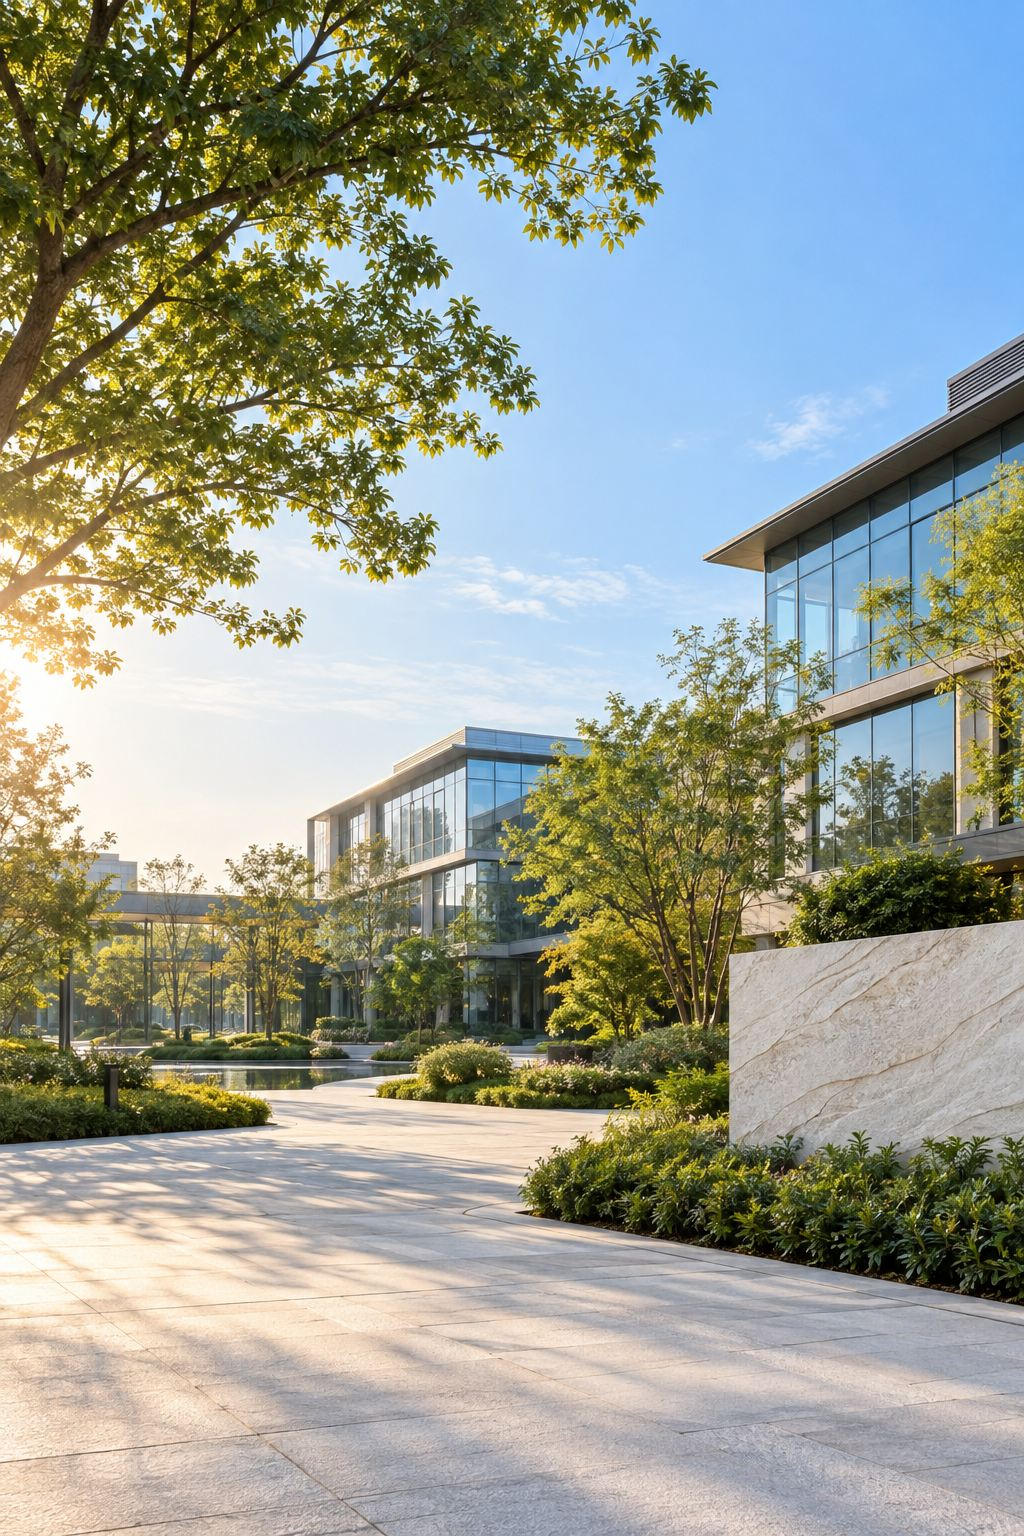
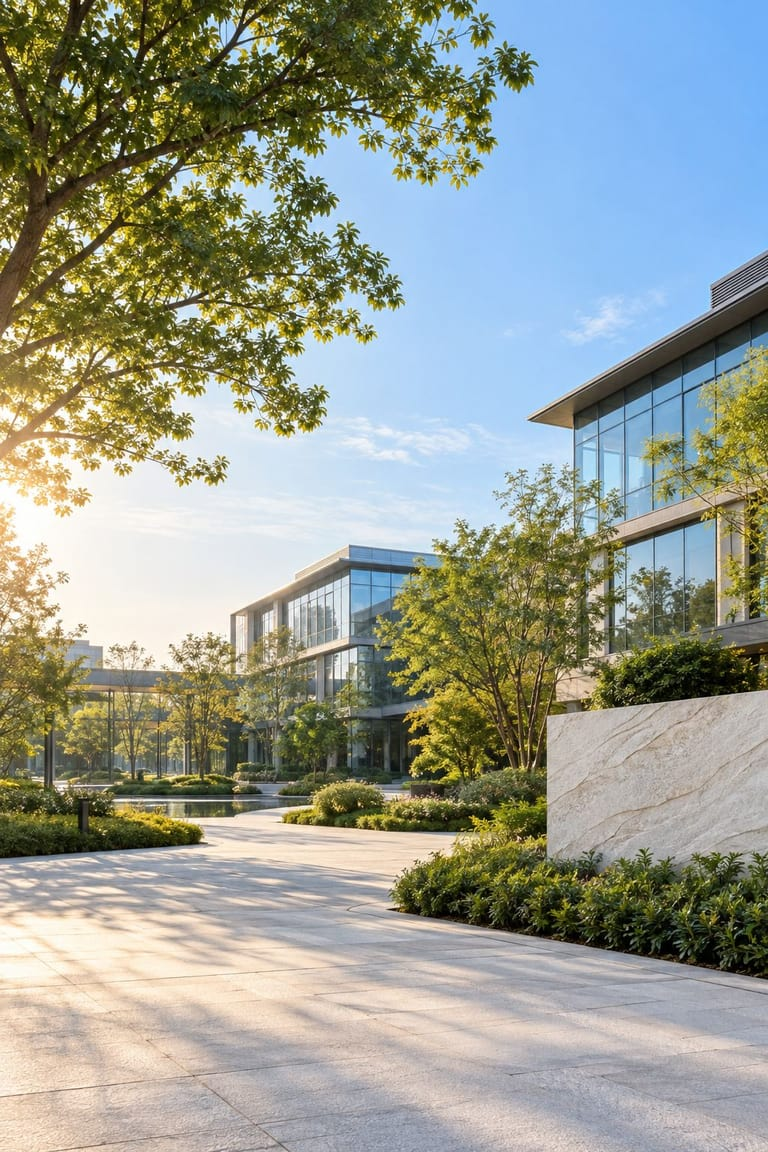
fix: reduce miniapp package size and record AI activity draft acceptance

diff --git a/docs/implementation-log/2026-11.md b/docs/implementation-log/2026-11.md
@@ -213,3 +213,11 @@
 名片设置与预览新增「编辑名片信息」。编辑返回后刷新头像、名称和补充资料，保留未保存的展示开关。底部预览按钮增加眼睛图标与浅绿描边，与保存按钮等宽同高。小程序类型检查、页面 ESLint、8 项名片测试及本地微信开发版编译通过，已核对开发产物，真机视觉待验。
 
 2026-11-12 用户已确认本地 AI 找活动、活动分享页和我的名片可用。线上新版 API 部署、真实模型检索和新版小程序真机复验待完成，首次邀请绑定继续待验。
+
+## 2026-11-12｜修复微信上传包体超限
+
+微信上传报告 80051，源码包 2051 KB。校园静态底图等比缩至 768 × 1152，JPEG 从 376821 字节减少到 197038 字节。重新编译服务器版小程序，核对产物图片哈希与 API 地址后，微信开发者工具 preview 成功，报告包体 1648587 字节。体验版上传由用户操作。
+
+## 2026-11-12｜AI 发活动用户验收通过
+
+用户在测试「助手 → 帮我发活动」后反馈「AI 发活动测试没问题了」，草稿生成功能按用户反馈记为通过。用户未报告是否正式发布活动。

diff --git a/HANDOFF.md b/HANDOFF.md
@@ -4,7 +4,7 @@
 
 ### 2026-11-12 本地验收与发布
 
-2026-11-12 用户已确认本地 AI 找活动、活动分享页和我的名片可用。线上新版 API 部署、真实模型检索和新版小程序真机复验待完成，首次邀请绑定继续待验。 服务器需部署 API 并配置 AI_MODEL=gpt-5.6-sol，本版无迁移。
+用户已确认 AI 发活动测试通过，本地 AI 找活动、活动分享页和我的名片此前也已确认。服务器 Agent 已回执部署 088d29b，AI_MODEL=gpt-5.6-sol。微信开发者工具预览包体为 1,648,587 字节。线上历史活动检索、AI 海报文案与首次邀请绑定仍待验。
 
 ### 2026-11-07 第二版活动海报与署名
 
